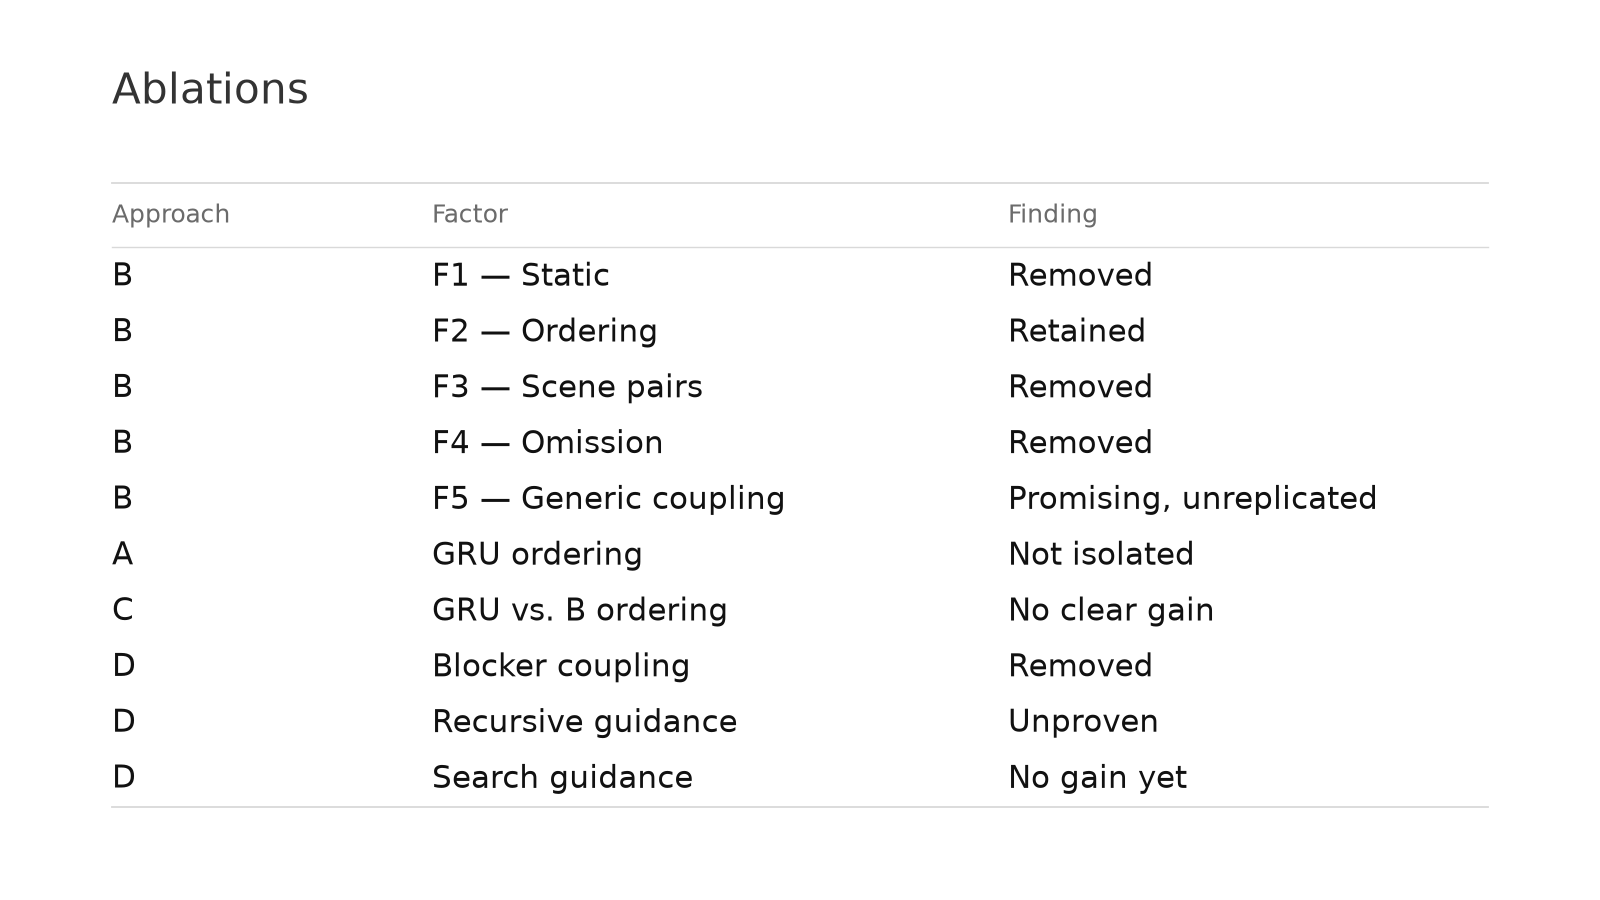
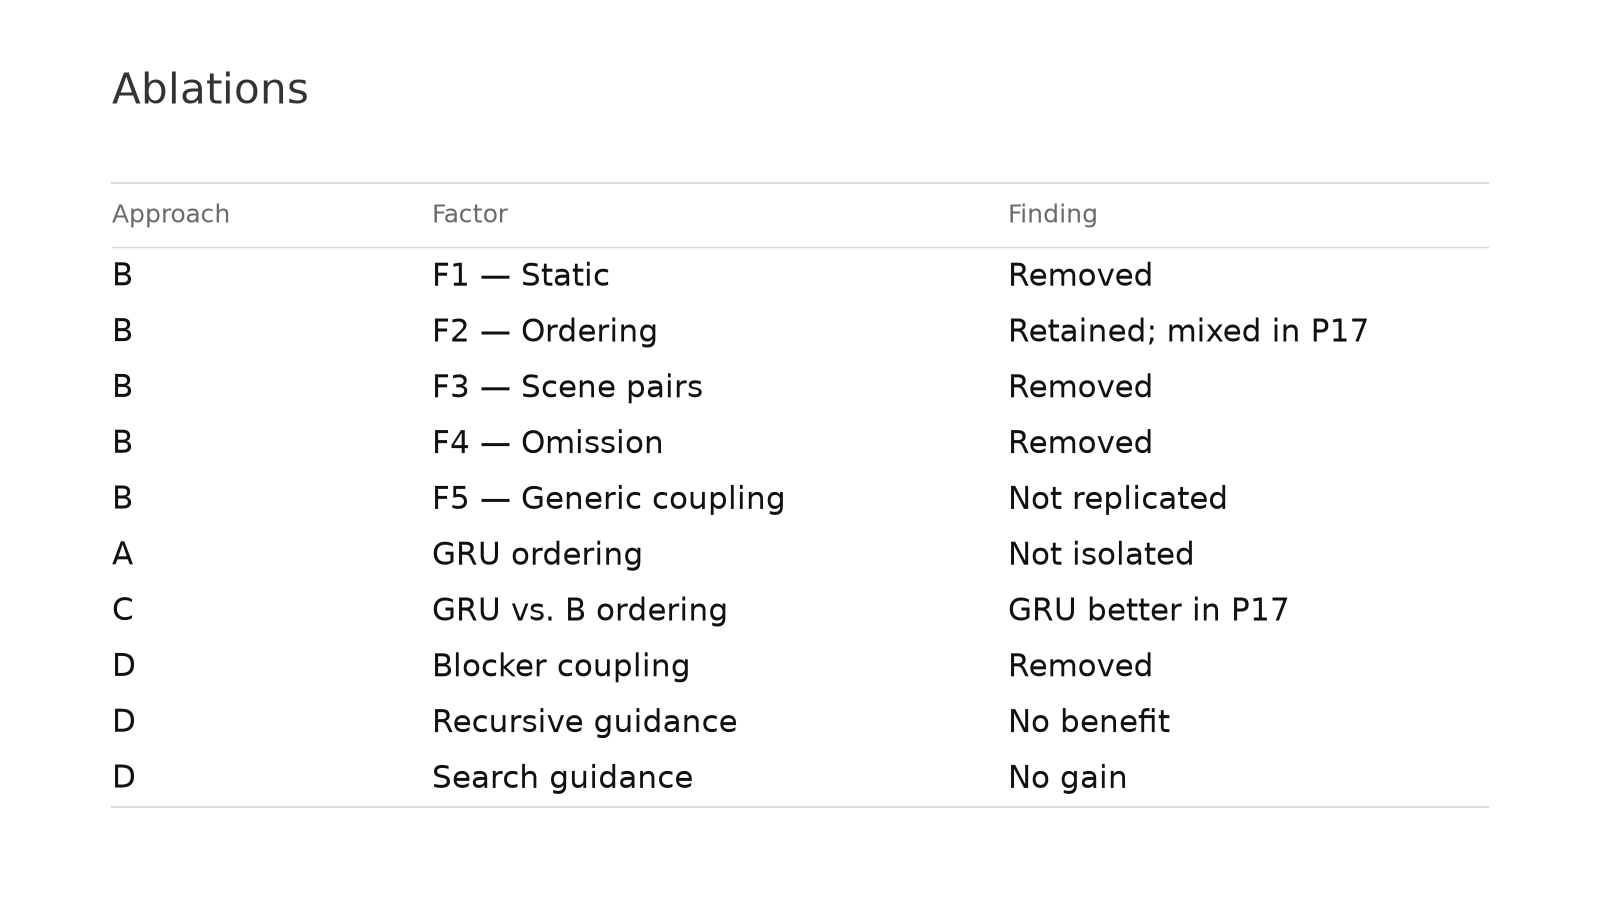
PoC-takeaway: refreshed from final P17 (matched 90-root A/B/C/D table, P17-updated ablations, five GIFs re-selected from the P17 test with historical C, unresolved shown as NOT RESOLVED)

diff --git a/PoC-takeaway/build.py b/PoC-takeaway/build.py
@@ -410,7 +410,7 @@ def gif_render(slot, panels, fname, header, sub, side, fixed=()):
         fig.text(0.03, 0.895, sub, fontsize=14, color=INK["secondary"], va="top")
         for i, k in enumerate(("A", "B", "C", "D")):
             p = panels[k]
-            ax = fig.add_axes([0.0 + (i % 2) * 0.335, 0.435 - (i // 2) * 0.425, 0.335, 0.37])
+            ax = fig.add_axes([0.0 + (i % 2) * 0.335, 0.505 - (i // 2) * 0.425, 0.335, 0.30])
             fr = frames_by[k]
             ph = p.get("phys") or any_ph
             if fr:
@@ -430,11 +430,11 @@ def gif_render(slot, panels, fname, header, sub, side, fixed=()):
             ax.text(0.07, 1.055, p["label"], transform=ax.transAxes, fontsize=16, weight="bold", va="center")
             done = fr is None or t >= len(fr) - 1
             txt, col = (p["text"], ST[p["status"]]) if done else ("executing certified motion …", INK["muted"])
-            ax.text(0.02, 0.03, txt, transform=ax.transAxes, fontsize=14, weight="bold", color="white", va="bottom", zorder=20,
+            ax.text(0.12, -0.04, txt, transform=ax.transAxes, fontsize=14, weight="bold", color="white", va="top", zorder=20, clip_on=False,
                     bbox=dict(boxstyle="round,pad=0.35", fc=col, ec="none"))
         fig.text(0.69, 0.80, "\n".join(side), fontsize=15, color=INK["secondary"], va="top", linespacing=1.45)
         yy = 0.30
-        for lab, c in (("SUCCESS", ST["success"]), ("NEEDLESS MOVE", ST["needless"]), ("FAILED", ST["failed"]), ("UNKNOWN", ST["unknown"]), ("NOT RUN", ST["not_run"])):
+        for lab, c in (("SUCCESS", ST["success"]), ("NEEDLESS MOVE", ST["needless"]), ("FAILED", ST["failed"]), ("NOT RUN", ST["not_run"])):
             fig.text(0.70, yy, f"  {lab}  ", fontsize=12, weight="bold", color="white", bbox=dict(boxstyle="round,pad=0.3", fc=c, ec="none"))
             yy -= 0.05
         fig.canvas.draw()
@@ -475,7 +475,7 @@ def outcome(y0, seq, status):
     if status == "VERIFIED":
         return "success", f"SUCCESS · {len(seq)} move{'s' if len(seq) != 1 else ''}"
     if str(status).startswith("UNKNOWN"):
-        return "unknown", "UNKNOWN · planner unresolved"
+        return "failed", "NOT RESOLVED · planner budget"            # operational convention: unresolved counts as infeasible
     if status == "ABSTAIN":
         return "unknown", "ABSTAINED"
     if not seq:
@@ -566,16 +566,24 @@ def p17_select():
              ("07_B_weakness.gif", "B fails, another approach succeeds", lambda k: ok[k]["B"] is False and any(ok[k][s] for s in "ACD")),
              ("08_C_weakness.gif", "C fails, another approach succeeds", lambda k: ok[k]["C"] is False and any(ok[k][s] for s in "ABD")),
              ("09_D_weakness.gif", "D finds no plan, geometry does", lambda k: k in both and not ok[k]["D"] and okd(rows[k], "geometry"))]
-    out = []
+    only = lambda k, x: ok[k][x] is False and all(ok[k][s] for s in "ABC" if s != x)  # noqa: E731  (only x fails among A-C)
+    pref = {"06_A_weakness.gif": "A", "07_B_weakness.gif": "B", "08_C_weakness.gif": "C"}
+    out, used = [], set()
     for f, t, rule in rules:
-        k = next((k for k in both if rule(k)), None) or next((k for k in rows if rule(k)), None)
+        cands = [lambda k, f=f: f in pref and only(k, pref[f]), rule]          # preferred contrast first, then the general rule
+        k = next((k for c in cands for pool in (both, list(rows)) for k in pool if k not in used and c(k)), None)
+        used.add(k)
         out.append({"file": f, "root": k, "title": t, "rows": rows, "plan": plan})
     return out
 
 
 def gifs(p17=False):
     if p17:
-        for sl in p17_select():
+        sel = p17_select()
+        S["gifs"]["p17_slots"] = [{"file": sl["file"], "root": sl["root"], "title": sl["title"],
+                                   "family": sl["plan"][sl["root"]]["family"] if sl["root"] else None} for sl in sel]
+        (HERE / "sources.json").write_text(json.dumps(S, indent=1, ensure_ascii=False) + "\n")
+        for sl in sel:
             k = sl["root"]
             if k is None:
                 pending_gif(sl["file"], sl["title"], "no P17 test scene matches this contrast")
@@ -604,7 +612,7 @@ def gifs(p17=False):
         if sl.get("alternative"):
             d = pan["D"]
             g = rows[k]["d"]["geometry"]
-            side += ["", "No D failure exists in P16", f"(all {rd(S['results']['d_file'])['common_roots']} D scenes solved).",
+            side += ["", "No D failure exists in P16", f"(all {rd(S['gifs']['d_test'])['common_roots']} D scenes solved).",
                      f"D search: {d['nodes']} nodes, {d['checks']} checks;", f"geometry: {g['log']['nodes']} nodes, {g['used']['motion_checks']} checks."]
         sub = "Hand-picked qualitative example · not a statistic"
         gif_render(sl, pan, sl["file"], sl["title"], sub, side, set(plan[k].get("fixed", [])))
